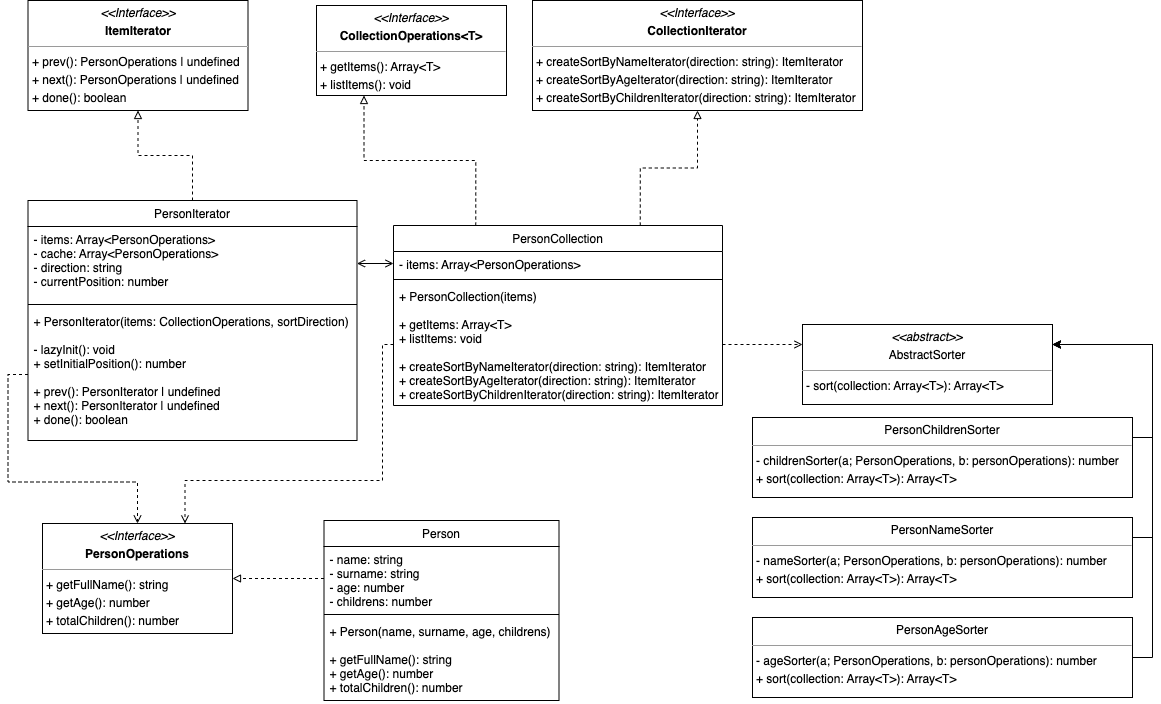
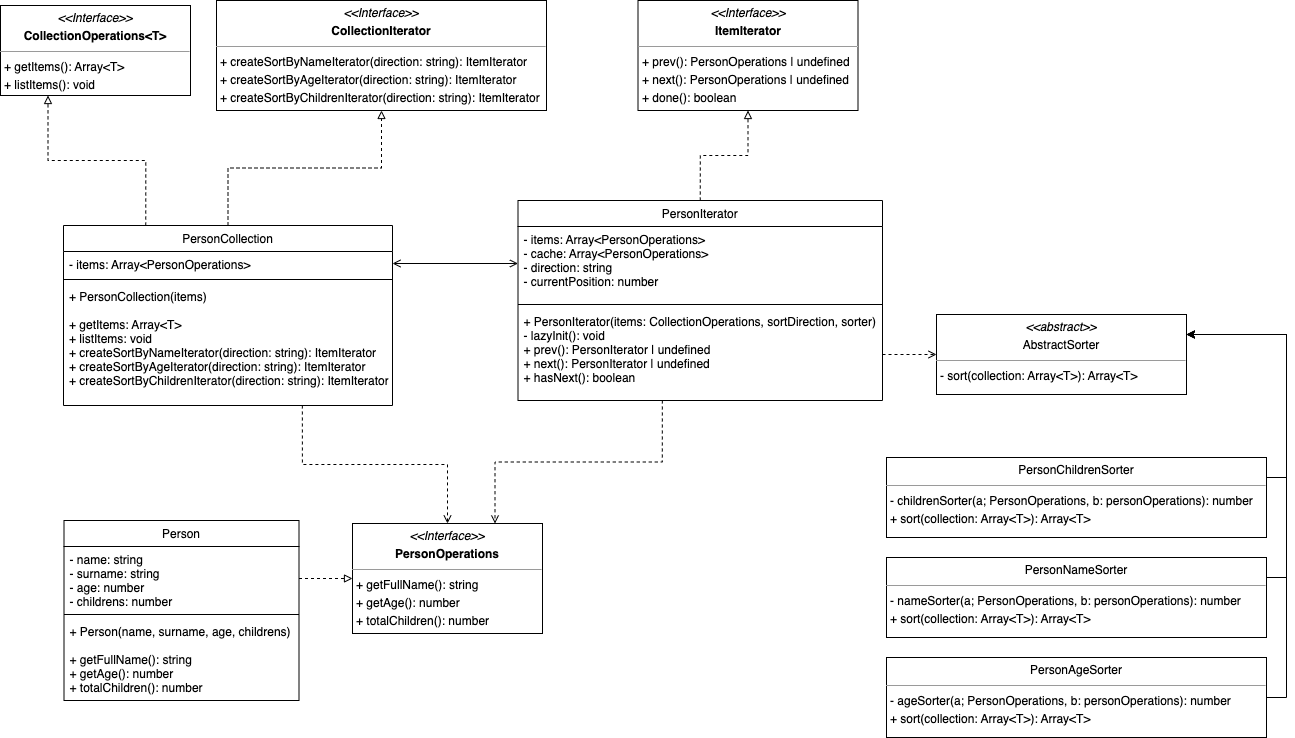
Batch of refinements

diff --git a/src/behavioral_patterns/Iterator/__tests__/PersonIterator/Personiterator.test.ts b/src/behavioral_patterns/Iterator/__tests__/PersonIterator/Personiterator.test.ts
@@ -2,6 +2,7 @@ import Person from "../../domain/Person";
 import PersonCollection from "../../domain/PersonCollection";
 import PersonIterator from "../../iterator/PersonIterator";
 import MockPersonIterator from "../../mocks/MockPersonIterator";
+import MockSorter from "../../mocks/MockSorter";
 import { ItemIterator } from "../../types";
 
 describe("given a class PersonIterator", () => {
@@ -12,15 +13,11 @@ describe("given a class PersonIterator", () => {
       personIterator = new MockPersonIterator();
     });
 
-    test("then method prev() should be defined", () => {
-      expect(personIterator.prev).toBeDefined();
-    });
-
     test("then method next() should be defined", () => {
       expect(personIterator.next).toBeDefined();
     });
 
-    test("then method done() should be defined", () => {
+    test("then method hasNext() should be defined", () => {
       expect(personIterator.hasNext).toBeDefined();
     });
   });
@@ -30,66 +27,56 @@ describe("given a class PersonIterator", () => {
     const mockPerson2 = new Person("Ada", "Lovelace", 25, 2);
     const mockPerson3 = new Person("Alan", "Turing", 30, 3);
 
-    const collection = new PersonCollection([
-      mockPerson1,
-      mockPerson2,
-      mockPerson3,
-    ]);
+    let mockedSorter: MockSorter;
 
-    let personIterator: MockPersonIterator;
-
-    beforeEach(() => {});
+    beforeEach(() => {
+      mockedSorter = new MockSorter();
+    });
 
     test("and sort direction is 'ASC' then items should be iterated as expected ", () => {
+      const collection = new PersonCollection([
+        mockPerson1,
+        mockPerson2,
+        mockPerson3,
+      ]);
+      const items = collection.getItems();
       const sortDirection = "ASC";
-      const personIterator = new PersonIterator(collection, sortDirection);
+
+      const personIterator = new PersonIterator(
+        items,
+        sortDirection,
+        mockedSorter
+      );
       let index: number = 0;
 
-      while (personIterator.hasNext() === false) {
+      while (personIterator.hasNext() === true) {
         const person = personIterator.next();
-        expect(person).toEqual(collection.getItems()[index]);
+        expect(person).toEqual(items[index]);
         index++;
       }
     });
 
     test("and sort direction is 'DESC' then items should be iterated as expected ", () => {
+      const collection = new PersonCollection([
+        mockPerson1,
+        mockPerson2,
+        mockPerson3,
+      ]);
+      const items = collection.getItems().reverse();
       const sortDirection = "DESC";
-      const personIterator = new PersonIterator(collection, sortDirection);
-      let index: number = collection.getItems().length - 1;
 
-      while (personIterator.hasNext() === false) {
+      const personIterator = new PersonIterator(
+        items,
+        sortDirection,
+        mockedSorter
+      );
+      let index: number = 0;
+
+      while (personIterator.hasNext() === true) {
         const person = personIterator.next();
-        expect(person).toEqual(collection.getItems()[index]);
-        index--;
+        expect(person).toEqual(items[index]);
+        index++;
       }
-    });
-
-    test("and sort direction is 'ASC' then prev() and next() methods should iterate collection as expected  ", () => {
-      const sortDirection = "ASC";
-      const personIterator = new PersonIterator(collection, sortDirection);
-
-      const firstPerson = personIterator.next();
-      expect(firstPerson?.getFullName()).toEqual("John Doe");
-
-      const nextPerson = personIterator.next();
-      expect(nextPerson?.getFullName()).toEqual("Ada Lovelace");
-
-      const prevPerson = personIterator.prev();
-      expect(prevPerson?.getFullName()).toEqual("John Doe");
-    });
-
-    test("and sort direction is 'DESC' then prev() and next() methods should iterate collection as expected  ", () => {
-      const sortDirection = "DESC";
-      const personIterator = new PersonIterator(collection, sortDirection);
-
-      const firstPerson = personIterator.next();
-      expect(firstPerson?.getFullName()).toEqual("Alan Turing");
-
-      const nextPerson = personIterator.next();
-      expect(nextPerson?.getFullName()).toEqual("Ada Lovelace");
-
-      const prevPerson = personIterator.prev();
-      expect(prevPerson?.getFullName()).toEqual("Alan Turing");
     });
   });
 });

diff --git a/src/behavioral_patterns/Iterator/iterator/PersonIterator/index.ts b/src/behavioral_patterns/Iterator/iterator/PersonIterator/index.ts
@@ -2,23 +2,16 @@ import AbstractSorter from "../../domain/Sorter/AbstractSorter";
 import { ItemIterator, PersonOperations } from "../../types";
 
 const SORT_DIRECTION = {
-  ASC: "ascending",
-  DESC: "descending",
+  ASC: "ASC",
+  DESC: "DESC",
 };
-
-type SortDirectionKeys = keyof typeof SORT_DIRECTION;
-
-//TODO
-// implement items.reverse() => remove ternaries
 
 export default class PersonIterator implements ItemIterator {
   private items: PersonOperations[];
   private cache: PersonOperations[];
-  private direction: string;
   private currentPosition: number;
 
   constructor(
-    // collection: CollectionOperations<PersonOperations>,
     items: PersonOperations[],
     sortDirection: string,
     sorter: AbstractSorter<PersonOperations>
@@ -27,40 +20,26 @@ export default class PersonIterator implements ItemIterator {
       sortDirection === SORT_DIRECTION.ASC
         ? sorter.sort(items)
         : sorter.sort(items).reverse();
-    this.cache = this.items;
-    this.direction =
-      SORT_DIRECTION[sortDirection as SortDirectionKeys] || SORT_DIRECTION.ASC;
-    this.currentPosition = this.setInitialPosition();
+    this.cache = [];
+    this.currentPosition = 0;
   }
 
   private lazyInit(): void {
     !this.cache.length && (this.cache = this.items);
   }
 
-  private setInitialPosition() {
-    return this.direction === SORT_DIRECTION.ASC ? -1 : this.items.length;
-  }
-
-  prev() {
-    if (this.hasNext()) {
-      return this.direction === SORT_DIRECTION.ASC
-        ? this.cache[--this.currentPosition]
-        : this.cache[++this.currentPosition];
-    }
-  }
-
   next() {
     if (this.hasNext()) {
-      return this.direction === SORT_DIRECTION.ASC
-        ? this.cache[++this.currentPosition]
-        : this.cache[--this.currentPosition];
+      const person = this.cache[this.currentPosition++];
+      // this.currentPosition++;
+      return person;
     }
   }
 
   hasNext() {
     this.lazyInit();
-    return this.direction === SORT_DIRECTION.ASC
-      ? !(this.currentPosition >= this.cache.length - 1)
-      : !(this.currentPosition <= 0);
+    return (
+      this.currentPosition >= 0 && this.currentPosition <= this.cache.length - 1
+    );
   }
 }

diff --git a/src/behavioral_patterns/Iterator/domain/PersonCollection/index.ts b/src/behavioral_patterns/Iterator/domain/PersonCollection/index.ts
@@ -30,19 +30,16 @@ export default class PersonCollection
 
   createSortByNameIterator(direction: string): ItemIterator {
     const nameSorter = new PersonNameSorter();
-    this.items = nameSorter.sort(this.getItems());
     return new PersonIterator(this.getItems(), direction, nameSorter);
   }
 
   createSortByAgeIterator(direction: string): ItemIterator {
     const ageSorter = new PersonAgeSorter();
-    this.items = ageSorter.sort(this.getItems());
     return new PersonIterator(this.getItems(), direction, ageSorter);
   }
 
   createSortByChildrenIterator(direction: string): ItemIterator {
     const childrenSorter = new PersonChildrenSorter();
-    this.items = childrenSorter.sort(this.getItems());
     return new PersonIterator(this.getItems(), direction, childrenSorter);
   }
 }

diff --git a/src/behavioral_patterns/Iterator/main.ts b/src/behavioral_patterns/Iterator/main.ts
@@ -14,9 +14,10 @@ const main = function () {
   const listPerson = new PersonCollection(items);
 
   const iteratorName = listPerson.createSortByNameIterator("ASC");
+  // console.log("🚀 ", { iteratorName });
   // const iteratorAge = listPerson.createSortByAgeIterator(0);
   // const iteratorChildren = listPerson.createSortByChildrenIterator(0);
-
+  console.log({ iteratorName_hasNext: iteratorName.hasNext() });
   while (iteratorName.hasNext()) {
     const person = iteratorName.next()?.getFullName();
     console.log({ person });

diff --git a/src/behavioral_patterns/Iterator/mocks/MockSorter.ts b/src/behavioral_patterns/Iterator/mocks/MockSorter.ts
@@ -1,11 +1,12 @@
+import Person from "../domain/Person";
 import AbstractSorter from "../domain/Sorter/AbstractSorter";
 
-export default class MockSorter extends AbstractSorter<string> {
+export default class MockSorter extends AbstractSorter<Person> {
   constructor() {
     super();
   }
 
-  sort(collection: string[]) {
+  sort(collection: Person[]) {
     return collection;
   }
 }

diff --git a/src/behavioral_patterns/Iterator/types.d.ts b/src/behavioral_patterns/Iterator/types.d.ts
@@ -10,7 +10,6 @@ export interface CollectionOperations<T> {
 }
 
 export interface ItemIterator {
-  prev: () => PersonOperations | undefined;
   next: () => PersonOperations | undefined;
   hasNext: () => boolean;
 }
